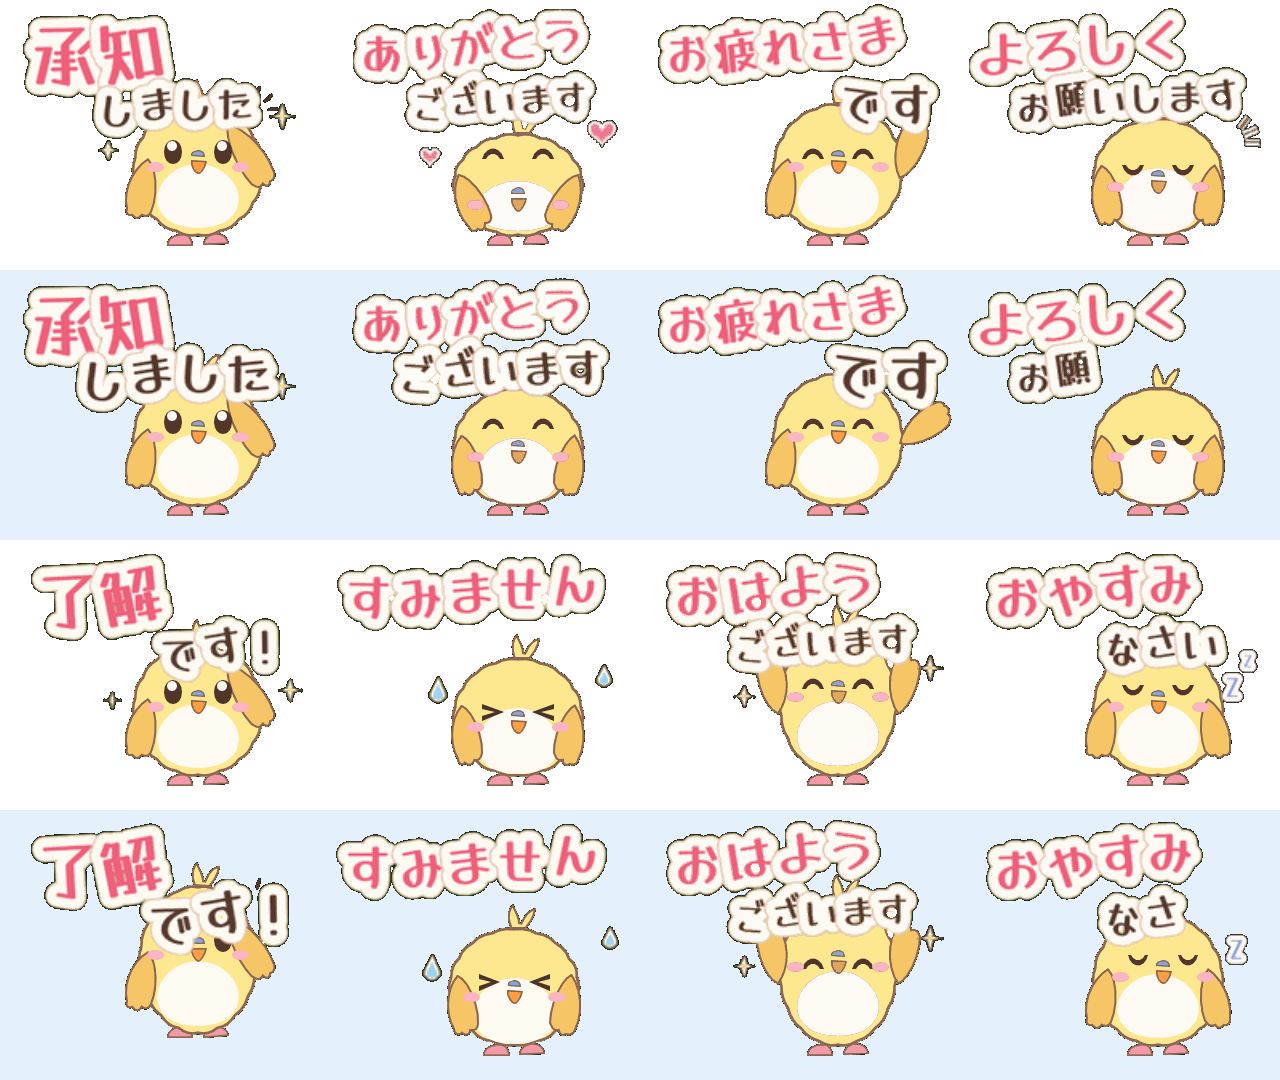
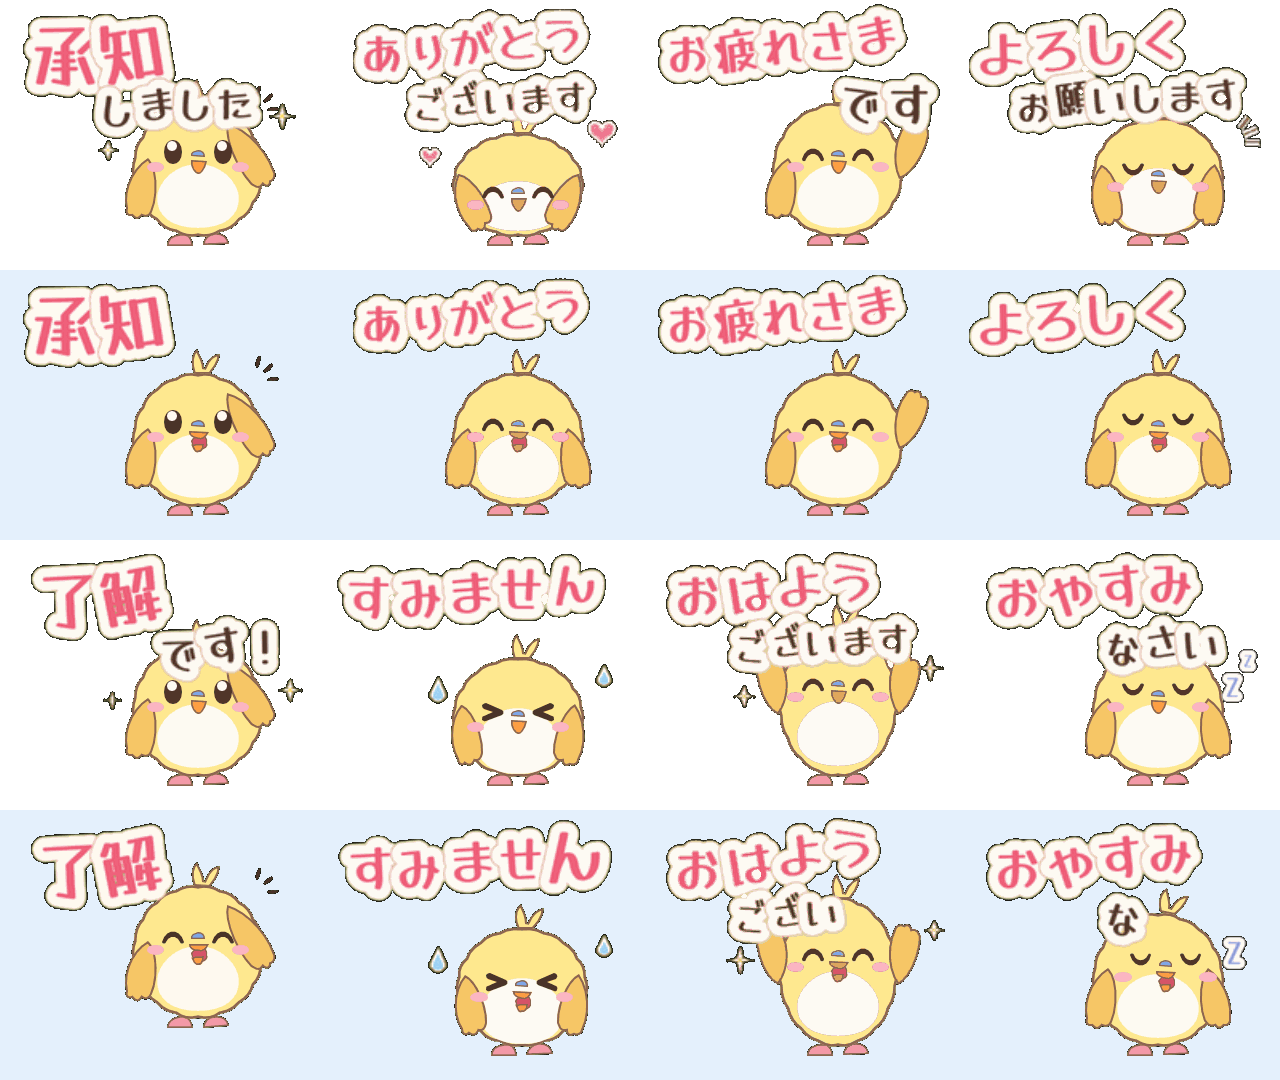
set01 v2: 口パク追加、目を顔に追従させる修正、目の角を丸く(8個すべてCanvaで描き直し)
Claude-Session: https://claude.ai/code/session_01RfomAZL54wRevPjVr3cHPk

diff --git a/tools/soft.py b/tools/soft.py
@@ -83,6 +83,53 @@ def big_eyes(c, k=1.4, hk=1.7):
             h["left"], h["top"] = nx - h["w"] / 2, ny - h["h"] / 2
 
 
+def _unit(x, y):
+    l = math.hypot(x, y)
+    return x / l, y / l
+
+
+def round_chevron(a, b, c, r):
+    """折れ線 a-b-c を太さ 2r の線にした形(両端と外側の角を丸める)。place() が A を楕円に
+    置き換えてしまうので、丸みはすべて C で描く。"""
+    def side(a, b, c):
+        """a→b→c の左側(進む向きに対して)をたどる。b の角は内側なら交点、外側なら丸める。"""
+        d1, d2 = _unit(b[0] - a[0], b[1] - a[1]), _unit(c[0] - b[0], c[1] - b[1])
+        n1, n2 = (d1[1], -d1[0]), (d2[1], -d2[0])
+        cos = n1[0] * n2[0] + n1[1] * n2[1]
+        q = (b[0] + r * (n1[0] + n2[0]) / (1 + cos), b[1] + r * (n1[1] + n2[1]) / (1 + cos))
+        if (q[0] - b[0]) * d1[0] + (q[1] - b[1]) * d1[1] < 0:
+            segs = [("L", q)]
+        else:
+            k = 4 / 3 * math.tan(math.acos(max(-1.0, min(1.0, cos))) / 4) * r
+            p1, p2 = (b[0] + r * n1[0], b[1] + r * n1[1]), (b[0] + r * n2[0], b[1] + r * n2[1])
+            segs = [("L", p1), ("C", (p1[0] + k * d1[0], p1[1] + k * d1[1]), (p2[0] - k * d2[0], p2[1] - k * d2[1]), p2)]
+        return segs + [("L", (c[0] + r * n2[0], c[1] + r * n2[1]))], d2, n2
+
+    def cap(o, n, d):
+        """o を中心にした半円(+n 側 → 先端 o+r·d → -n 側)を C 2本で。"""
+        k = 0.5523 * r
+        p1, tip, p2 = (o[0] + r * n[0], o[1] + r * n[1]), (o[0] + r * d[0], o[1] + r * d[1]), (o[0] - r * n[0], o[1] - r * n[1])
+        return [("C", (p1[0] + k * d[0], p1[1] + k * d[1]), (tip[0] + k * n[0], tip[1] + k * n[1]), tip),
+                ("C", (tip[0] - k * n[0], tip[1] - k * n[1]), (p2[0] + k * d[0], p2[1] + k * d[1]), p2)]
+
+    go, d2, n2 = side(a, b, c)
+    back, d0, n0 = side(c, b, a)  # 逆向きにたどると、反対側のふちになる
+    d1 = _unit(b[0] - a[0], b[1] - a[1])
+    start = (a[0] + r * d1[1], a[1] - r * d1[0])
+    segs = go + cap(c, n2, d2) + back + cap(a, n0, d0)
+    return f"M{start[0]:.1f} {start[1]:.1f} " + " ".join(
+        op + " ".join(f"{x:.1f} {y:.1f}" for x, y in pts) for op, *pts in segs) + " Z"
+
+
+# 目は角を丸くする: にっこり目・閉じ目は両端を丸め、「><」目は丸い線で描き直す
+ROUND_EYES = {
+    inko.ALT["E_HAPPY"][2]: "M1 9 C3 1 11 1 13 9 C13 10.3 11 10.3 11 9 C9.5 5 4.5 5 3 9 C3 10.3 1 10.3 1 9 Z",
+    inko.ALT["E_CLOSE"][2]: "M1 1 C3 9 11 9 13 1 C13 -0.3 11 -0.3 11 1 C9.5 5 4.5 5 3 1 C3 -0.3 1 -0.3 1 1 Z",
+    inko.ALT["E_X_L"][2]: round_chevron((2.4, 3.4), (11.4, 7), (2.4, 10.6), 1.6),
+    inko.ALT["E_X_R"][2]: round_chevron((11.6, 3.4), (2.6, 7), (11.6, 10.6), 1.6),
+}
+
+
 def wobble(d, seed, amt=1.0):
     """パスの座標を少しずらして手描きの揺らぎを出す。"""
     rnd = random.Random(seed)
@@ -91,6 +138,7 @@ def wobble(d, seed, amt=1.0):
 
 def soften(c):
     for key, e in c.items():
+        e["d"] = ROUND_EYES.get(e["d"], e["d"])
         if e["d"] in BODY_PATHS:
             e["d"] = scallop(e.get("vw", e["w"]), e.get("vh", e["h"]))
         elif key in ("P6", "P7"):
@@ -110,10 +158,15 @@ def soften(c):
         if key == "P0":
             e["sw"] = 10
     big_eyes(c)
-    for key in ("P14", "P15"):  # くちばしは小さめに
+    for key in ("P14", "P15", "P15m"):  # くちばしは小さめに(口の中はくちばしの中心を基準に縮める)
         if key in c:
             e = c[key]
-            cx, cy = e["left"] + e["w"] / 2, e["top"] + e["h"] / 2
+            b = c["P15"] if key == "P15m" else e
+            cx, cy = b["left"] + b["w"] / 2, b["top"] + b["h"] / 2
+            if key == "P15m":
+                e["left"], e["top"] = cx + (e["left"] - cx) * 0.78, cy + (e["top"] - cy) * 0.78
+                e["w"], e["h"] = e["w"] * 0.78, e["h"] * 0.78
+                continue
             e.setdefault("vw", e["w"])
             e.setdefault("vh", e["h"])
             e["w"], e["h"] = e["w"] * 0.78, e["h"] * 0.78
@@ -251,8 +304,27 @@ happy, blink = inko.happy, inko.blink
 PEKO1, PEKO2 = ("peko", 272, 140, 28), ("peko", 272, 156, 32)
 
 
+# 口パク: くちばしを上下に開き、間に口の中(濃いピンク)を見せる。顔の位置はくちばしについて行く。
+BEAK_OPEN = ("M1 2 L21 2 C21 6.5 15.5 10.5 11 10.5 C6.5 10.5 1 6.5 1 2 Z "
+             "M4.5 15.5 C8 14.5 14 14.5 17.5 15.5 C17 20.5 13.5 24 11 24 C8.5 24 5 20.5 4.5 15.5 Z")
+MOUTH = "M7 0.5 C11 0.5 13.5 3.5 13.5 6 C13.5 9.5 11 12.5 7 12.5 C3 12.5 0.5 9.5 0.5 6 C0.5 3.5 3 0.5 7 0.5 Z"
+
+
+def talk(c):
+    b = c["P15"]
+    b.update(left=b["left"] - 2, w=22, h=25, d=BEAK_OPEN)  # 少し大きく開けて、口の中を見せる
+    mouth = dict(fill="#D9546A", stroke=inko.INK, sw=2, w=14, h=13, left=b["left"] + 4, top=b["top"] + 5,
+                 d=MOUTH, rot=0)
+    items = list(c.items())
+    c.clear()
+    for k, v in items:  # 口の中はくちばしの下に重ねる
+        if k == "P15":
+            c["P15m"] = mouth
+        c[k] = v
+
+
 def X(c):
-    inko.eyes(c, "X", 16)
+    inko.eyes(c, "X")
 
 
 def sh(dx):
@@ -399,6 +471,13 @@ STAMPS = {
            kf([inko.sway(0, 0)], f08(wave=(2, 5.6), rs=1), zz(0)),
            kf([inko.sway(0, 0)], f08(rs=1), zz(0))],
 }
+
+
+# 口パク: セリフが出ているあいだ、1コマおきに口を開ける(1コマ目=完成形は閉じたまま)
+TALK_FRAMES = (2, 4, 6, 8, 10)
+for frames in STAMPS.values():
+    for i in TALK_FRAMES:
+        frames[i]["poses"] = frames[i]["poses"] + [talk]
 
 
 # ---- 出力 --------------------------------------------------------------------
@@ -549,6 +628,8 @@ ORDER = list(inko.BASE)
 
 
 def inko_order(key):
+    if key == "P15m":  # 口の中はくちばしのすぐ下
+        return ORDER.index("P15") - 0.5
     return ORDER.index(key) if key in ORDER else len(ORDER)
 
 

diff --git a/tools/inko.py b/tools/inko.py
@@ -104,16 +104,18 @@ def wing(c, i, cx, cy, rot):
 
 
 def eyes(c, kind, dy=0):
-    """目を差し替える(ハイライトは消す)。kind: E_HAPPY / E_CLOSE / X"""
+    """目を差し替える(ハイライトは消す)。kind: E_HAPPY / E_CLOSE / X
+    おじぎ等で顔が動いていても、くちばし(P14)の位置から同じだけずらして顔について行かせる。"""
     c.pop("P10", None)
     c.pop("P11", None)
+    ox, oy = c["P14"]["left"] - BASE["P14"]["left"], c["P14"]["top"] - BASE["P14"]["top"]
     if kind == "X":
         specs = [("P8", "E_X_L", 133, 171), ("P9", "E_X_R", 173, 171)]
     else:
         specs = [("P8", kind, 133, 173), ("P9", kind, 173, 173)]
     for i, key, left, top in specs:
         w, h, d = ALT[key]
-        c[i].update(w=w, h=h, d=d, left=left, top=top + dy)
+        c[i].update(w=w, h=h, d=d, left=left + ox, top=top + oy + dy)
 
 
 # 5-4 ポーズ(基本ポーズへの変更として順に適用する)
@@ -305,11 +307,11 @@ L05, L06 = ["了解です！"], ["すみません"]
 L07, L08 = ["おはよう", "ございます"], ["おやすみ", "なさい"]
 ONE = 20 + 56 * 1.12 / 2  # 1行セリフの中心(サイズ56基準で固定)
 
-f06 = [F([B1, lambda c: eyes(c, "X", 16), shake(-3)], T(L06, 56, dx=2), [sweat(104, 150), sweat(216, 150)]),
-       F([B1, lambda c: eyes(c, "X", 16), shake(3)], T(L06, 56, dx=-2), [sweat(94, 140), sweat(226, 140)]),
-       F([B1, lambda c: eyes(c, "X", 16), shake(-3)], T(L06, 56, dx=2),
+f06 = [F([B1, lambda c: eyes(c, "X"), shake(-3)], T(L06, 56, dx=2), [sweat(104, 150), sweat(216, 150)]),
+       F([B1, lambda c: eyes(c, "X"), shake(3)], T(L06, 56, dx=-2), [sweat(94, 140), sweat(226, 140)]),
+       F([B1, lambda c: eyes(c, "X"), shake(-3)], T(L06, 56, dx=2),
          [sweat(84, 130, 10, 15), sweat(236, 130, 10, 15)]),
-       F([B1, lambda c: eyes(c, "X", 16), shake(3)], T(L06, 56, dx=-2))]
+       F([B1, lambda c: eyes(c, "X"), shake(3)], T(L06, 56, dx=-2))]
 f07 = [F([N2], T(L07, 48, dy=-4), [spark(76, 156), spark(244, 156)]),
        F([N2], T(L07, 48, dy=-4), [spark(72, 182, 16), spark(248, 182, 16)])]
 SW = [(0, 0), (4, 5), (6, 8), (4, 5), (0, 0), (-4, -5), (-6, -8), (-4, -5)]

diff --git a/work/set01/qa.md b/work/set01/qa.md
@@ -269,3 +269,13 @@
 
 - 作り直した 02/03/04/06/08 は、どれも 320×270・12コマ・2秒×2回、300,000バイト以下(04 が最大で 295,694バイト)。
 - 任意の指摘(04 を 270KB 以下にする、タブ画像の位置、06 の動きの変化)は今回は見送り。
+
+### ユーザー確認後の修正(動きの確認)
+
+| 指摘 | 対応 |
+|---|---|
+| 02 ありがとうございます: 目が顔について行かない(おじぎで体が下がっても目だけ元の位置) | 目を差し替えるとき、くちばしの位置から同じだけずらすように修正(`inko.eyes`)。02 のおじぎ、06 の「><」目も顔について行く |
+| 全部に口パクを入れる | セリフが出ているあいだ、3・5・7・9・11コマ目でくちばしを開けて口の中(濃いピンク)を見せる。1コマ目(完成形)は閉じたまま |
+| 目に角がある → 丸くする | にっこり目・閉じ目の両端を丸め、「><」目は丸い線で描き直した |
+
+- 8個とも 320×270・12コマ・2秒×2回・300,000バイト以下(最大は 04 の 297,345バイト)。
